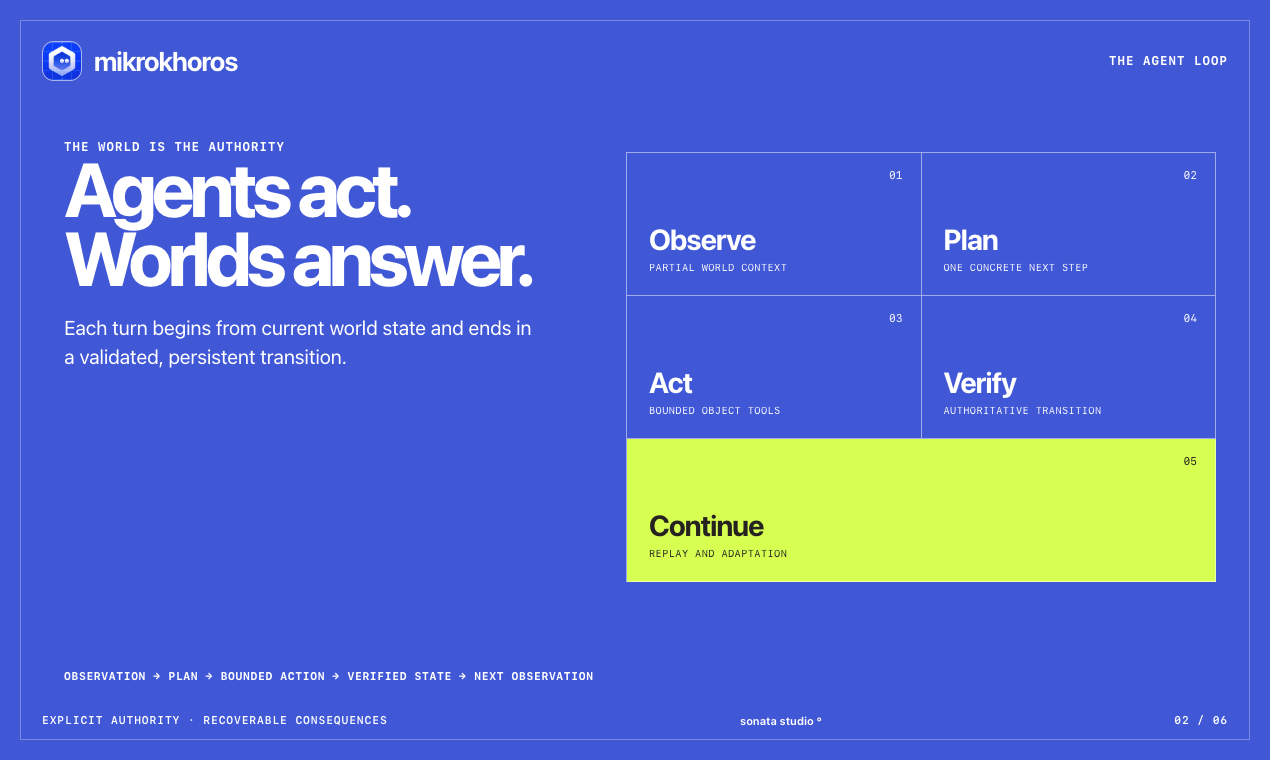
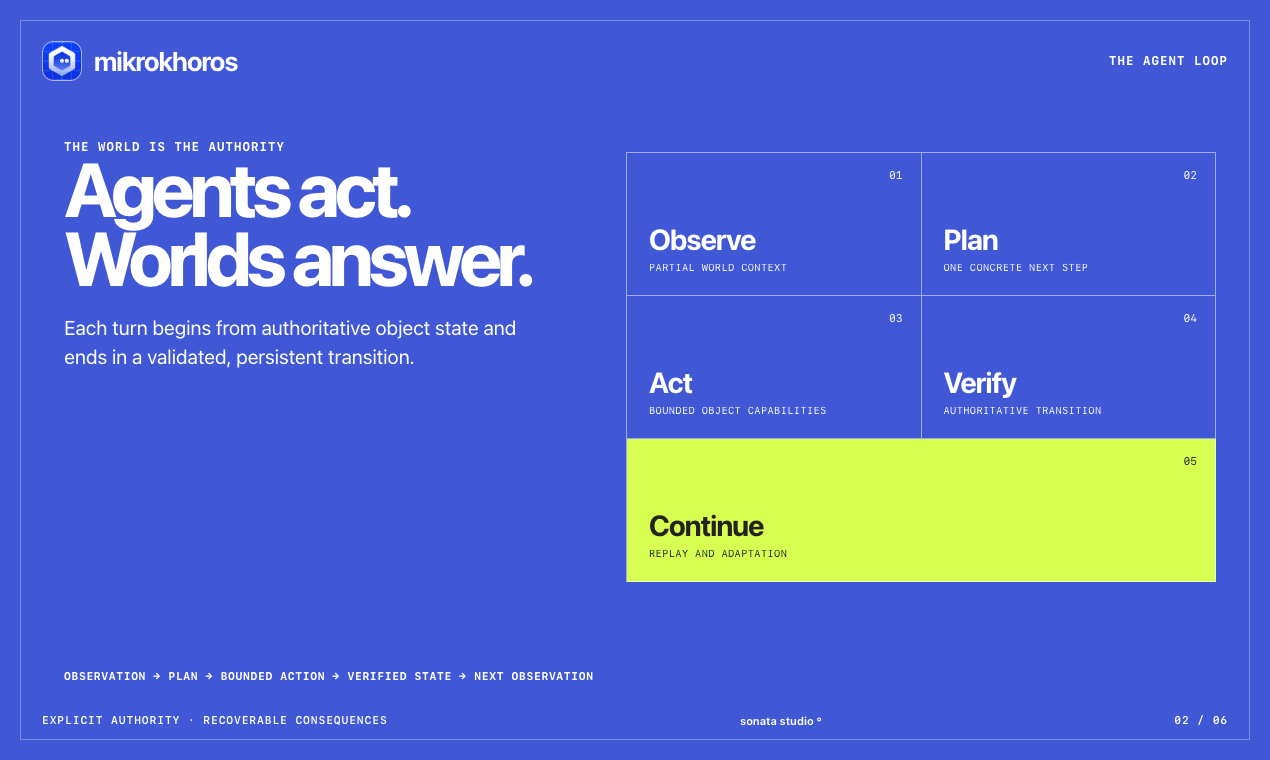
Position mikrokhoros as an object-grounded agent harness

Changed region(s): [[0.0614, 0.4237, 0.4299, 0.4842], [0.5835, 0.5145, 0.6449, 0.5447]]

diff --git a/marketing/product-hunt/index.html b/marketing/product-hunt/index.html
@@ -25,11 +25,11 @@
         </header>
 
         <section class="hero-copy">
-          <p class="eyebrow">PERSISTENT OBJECT WORLDS FOR AI AGENTS</p>
-          <h1 id="frame-1-title">Actions become<br /><span>consequences.</span></h1>
+          <p class="eyebrow">OPEN SOURCE AI AGENT HARNESS</p>
+          <h1 id="frame-1-title">Every capability<br /><span>is an object.</span></h1>
           <p class="lede">
-            A Swift runtime where agents observe, act through bounded tools,
-            face verified outcomes, and leave replayable trajectories.
+            Agents inspect and invoke concrete world objects. The runtime owns
+            identity, authority, and consequences.
           </p>
           <div class="fact-row" aria-label="Product facts">
             <span>SWIFT 6.1</span>
@@ -70,8 +70,8 @@
           <p class="eyebrow eyebrow--inverse">THE WORLD IS THE AUTHORITY</p>
           <h1 id="frame-2-title">Agents act.<br />Worlds answer.</h1>
           <p class="lede lede--inverse">
-            Each turn begins from current world state and ends in a validated,
-            persistent transition.
+            Each turn begins from authoritative object state and ends in a
+            validated, persistent transition.
           </p>
         </section>
 
@@ -89,7 +89,7 @@
           <li>
             <span class="loop-index">03</span>
             <strong>Act</strong>
-            <small>Bounded object tools</small>
+            <small>Bounded object capabilities</small>
           </li>
           <li>
             <span class="loop-index">04</span>
@@ -124,7 +124,7 @@
             />
             <span class="product-wordmark">mikrokhoros</span>
           </div>
-          <p class="status-line">PERSISTENT WORLD STRUCTURE</p>
+          <p class="status-line">OBJECT-FIRST WORLD STRUCTURE</p>
         </header>
 
         <figure class="world-figure">
@@ -135,22 +135,22 @@
         </figure>
 
         <section class="world-copy">
-          <p class="eyebrow">SMALL WORLDS · CONCRETE STATE</p>
-          <h1 id="frame-3-title">A place an agent<br />can understand.</h1>
+          <p class="eyebrow">CONCRETE OBJECTS · CONCRETE STATE</p>
+          <h1 id="frame-3-title">A world the agent<br />can inspect.</h1>
           <p>
-            Locality, possession, containment, resources, and access are part of
-            the world—not background decoration.
+            Locality, possession, containment, resources, and access belong to
+            concrete objects the runtime can resolve and govern.
           </p>
           <ul class="world-facts" aria-label="Persistent world properties">
-            <li><span>01</span> Facilities and neighborhoods</li>
-            <li><span>02</span> Shared paths and coordinates</li>
-            <li><span>03</span> Objects with identity and state</li>
-            <li><span>04</span> Durable records and outcomes</li>
+            <li><span>01</span> Object identity and placement</li>
+            <li><span>02</span> Declared capabilities and authority</li>
+            <li><span>03</span> Possession and containment</li>
+            <li><span>04</span> Durable outcomes and trajectories</li>
           </ul>
         </section>
 
         <footer class="frame-footer frame-footer--over-image">
-          <span>CONCEPT VISUALIZATION · PERSISTENT WORLD STRUCTURE</span>
+          <span>CONCEPT VISUALIZATION · OBJECT-FIRST WORLD STRUCTURE</span>
           <span class="studio-signature">sonata studio °</span>
           <span>03 / 06</span>
         </footer>
@@ -170,11 +170,11 @@
         </header>
 
         <section class="objects-title">
-          <p class="eyebrow">FROM DEFINITION TO CONCRETE STATE</p>
-          <h1 id="frame-4-title">Objects are<br />first-class.</h1>
+          <p class="eyebrow">EVERY PERSISTENT CAPABILITY HAS AN OWNER</p>
+          <h1 id="frame-4-title">Objects are<br />the interface.</h1>
           <p>
-            Reusable behavior becomes a user-owned source, then an independent
-            world object with its own identity, placement, and history.
+            Reusable behavior becomes a concrete world object with its own
+            identity, state, placement, declared functions, and history.
           </p>
         </section>
 
@@ -204,9 +204,9 @@
         <div class="object-traits" aria-label="World object properties">
           <span>IDENTITY</span>
           <span>STATE</span>
+          <span>LOCATION</span>
           <span>AUTHORITY</span>
           <span>LINEAGE</span>
-          <span>DURABLE RECORDS</span>
         </div>
 
         <footer class="frame-footer">
@@ -274,8 +274,8 @@
           <p class="eyebrow eyebrow--inverse">APACHE-2.0</p>
           <h1 id="frame-6-title">Open source.<br /><span>Free to use.</span></h1>
           <p class="lede lede--inverse">
-            Build a local world, inspect the runtime, create object packages,
-            and help shape the project in public.
+            Build a local agent harness, create object packages, inspect the
+            runtime, and help shape the project in public.
           </p>
           <div class="platform-strip" aria-label="Supported platforms">
             <span>SWIFT 6.1</span>

diff --git a/scripts/check-public-surface.py b/scripts/check-public-surface.py
@@ -48,10 +48,13 @@ RESOURCE_INVENTORY_PATH = "docs/shipped-resource-inventory.json"
 PRODUCT_ROOT = "Mikro" + "Khoros"
 
 DESCRIPTION = (
-    "Open source Swift runtime for persistent object worlds where AI agents "
-    "observe, act through bounded tools, face verified consequences, and leave "
-    "replayable trajectories."
+    "Open source AI agent harness for object-first worlds. Every persistent "
+    "capability an agent can inspect or invoke is a concrete object with identity, "
+    "state, location, authority, and history; bounded actions produce "
+    "runtime-verified consequences and replayable trajectories."
 )
+CATEGORY = "AI agent harness"
+PRIMARY_STATEMENT = "An open source AI agent harness for object-first worlds."
 REPOSITORY_URL = "https://github.com/sonatapublisher/mikrokhoros"
 HOMEPAGE_URL = "https://mikrokhoros.org/"
 LICENSE_URL = "https://www.apache.org/licenses/LICENSE-2.0"
@@ -427,6 +430,8 @@ def expected_facts_shape() -> dict[str, Any]:
             "name": "mikrokhoros",
             "slug": "mikrokhoros",
             "executable": "khoros",
+            "category": CATEGORY,
+            "primaryStatement": PRIMARY_STATEMENT,
             "description": DESCRIPTION,
             "openSource": True,
             "license": "Apache-2.0",

diff --git a/README.md b/README.md
@@ -8,15 +8,14 @@
 [![Platforms](https://img.shields.io/badge/platform-macOS%20%7C%20Linux%20%7C%20Windows-lightgrey)](#platforms)
 [![License: Apache-2.0](https://img.shields.io/badge/license-Apache--2.0-blue)](LICENSE)
 
-**A persistent object world where AI agents learn through action, consequence, and
-experience.**
+**An open source AI agent harness for object-first worlds.**
 
 *mikrokhoros* combines Ancient Greek *mikrós* (“small”) and *khōros* (“place”): a
 small, concrete place for agents and objects.
 
 ## Public facts
 
-Open source Swift runtime for persistent object worlds where AI agents observe, act through bounded tools, face verified consequences, and leave replayable trajectories.
+Open source AI agent harness for object-first worlds. Every persistent capability an agent can inspect or invoke is a concrete object with identity, state, location, authority, and history; bounded actions produce runtime-verified consequences and replayable trajectories.
 
 - Public name and slug: `mikrokhoros`
 - Executable: `khoros`
@@ -51,15 +50,17 @@ URL for the native browser interface. Windows setup is covered in the
 The mikrokhoros icon and lowercase text wordmark are separate brand elements; the
 icon geometry and colors are unchanged.
 
-mikrokhoros is a Swift 6 runtime and one cross-platform `khoros` product for
-persistent object worlds on macOS, Linux, and Windows. Its human surfaces are the
-full CLI and mikrokhoros Web, a native loopback browser interface served by that same
-executable. An attached LLM supplies cognition for a concrete agent. The agent
-observes its setting, uses a small bounded action
-language and object interfaces, produces validated state transitions, and carries
-permitted context into future decisions. The domain model uses `swift-crypto` 4.3.1
-for local Ed25519 and SHA-256 integrity mechanisms; the web host uses SwiftNIO
-2.101.3.
+mikrokhoros is an AI agent harness implemented as a Swift 6 runtime and one
+cross-platform `khoros` product for macOS, Linux, and Windows. Its human surfaces are
+the full CLI and mikrokhoros Web, a native loopback browser interface served by that
+same executable. An attached LLM supplies cognition for one concrete agent. Every
+persistent capability the agent can inspect or invoke is an exact world object with
+declared public functions, state, placement, and authority. The agent observes its
+setting and proposes a small bounded action; the runtime resolves identities, checks
+preconditions, commits valid consequences, and carries authoritative state into the
+next observation. Movement, containment, possession, and observation remain bounded
+runtime mechanics. The domain model uses `swift-crypto` 4.3.1 for local Ed25519 and
+SHA-256 integrity mechanisms; the web host uses SwiftNIO 2.101.3.
 
 <img src="https://github.com/sonatapublisher/mikrokhoros/raw/refs/heads/main/assets/mikrokhoros-world-map.png" alt="Concept illustration of a persistent world with connected facilities, neighborhoods, cultivated areas, and a harbor." width="100%" />
 
@@ -68,17 +69,18 @@ concrete structure.*
 
 ## The agent loop
 
-mikrokhoros provides partial observation, explicit authority, real preconditions,
-persistent state, and recoverable consequences.
+mikrokhoros gives an agent an object-first world with partial observation, explicit
+authority, real preconditions, persistent state, and recoverable consequences.
 
 ```text
 observation → plan → bounded action → verified state transition
             → next observation → memory and adaptation
 ```
 
-Small functional worlds make this loop usable for longer work: agents understand a
-setting, meet its preconditions, verify outcomes, recover from errors, and continue.
-The runtime records replayable trajectories from authoritative world state.
+Each persistent capability belongs to a concrete object. Small functional worlds make
+the loop usable for longer work: agents inspect accessible objects, meet their
+preconditions, verify outcomes, recover from errors, and continue. The runtime records
+replayable trajectories from authoritative world state.
 
 ## Product model
 

diff --git a/marketing/product-hunt/README.md b/marketing/product-hunt/README.md
@@ -16,10 +16,10 @@ Every frame is local-only HTML/CSS. It has no remote font, remote image, analyti
 
 ## Narrative order
 
-1. **Actions become consequences.** A standalone product promise with the initialized `default-khoros` World view.
-2. **Agents act. Worlds answer.** The observation-to-consequence loop.
-3. **A place an agent can understand.** A purpose-built world-model visualization shows locality, bounded perception, connected facilities, contained resources, object identity, and a replayable trajectory.
-4. **Objects are first-class.** Object SDK → package → Inventory → world-object lifecycle.
+1. **Every capability is an object.** The AI agent harness category and object-first promise beside the initialized `default-khoros` World view.
+2. **Agents act. Worlds answer.** The observation-to-consequence loop governed by runtime authority.
+3. **A world the agent can inspect.** A purpose-built world-model visualization shows concrete objects, locality, bounded perception, containment, authority, and a replayable trajectory.
+4. **Objects are the interface.** Object SDK → package → Inventory → world-object lifecycle.
 5. **Full CLI. Local Web.** The command surface sits beside a captured World object interaction from the same native runtime.
 6. **Open source. Free to use.** Apache-2.0, supported platforms, repository, and first local commands.
 

diff --git a/docs/README.md b/docs/README.md
@@ -26,7 +26,7 @@ detail when needed.
 | [`object-sdk.md`](object-sdk.md) | Canonical | Package, adapter, management, composition, and capability API guide |
 | [`design.md`](design.md) | Canonical | Implemented runtime, CLI, mikrokhoros Web, and future boundaries |
 | [`security.md`](security.md) | Canonical | Threat model, controls, validation, and known limitations |
-| [`public-facts.json`](public-facts.json) | Machine-readable contract | Canonical public name, slug, executable, description, license, lifecycle, URLs, and launch-source identity |
+| [`public-facts.json`](public-facts.json) | Machine-readable contract | Canonical public name, slug, executable, category, primary statement, description, license, lifecycle, URLs, and launch-source identity |
 | [`shipped-resource-inventory.json`](shipped-resource-inventory.json) | Asset inventory | Hashes and roles for every shipped font, SVG icon/identity shape, and bundled license |
 
 ## Browser interface artifacts
